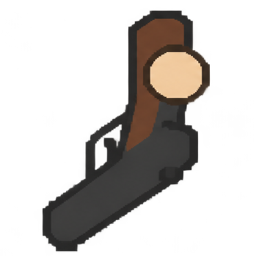
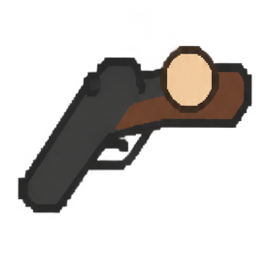
Update gunner level-2 gun sprites fr/fl; bump asset version

diff --git a/game.js b/game.js
@@ -157,7 +157,7 @@ const ISO_HH = 32; // половина высоты изотайла (64 / 2)
 const ROAD_WIDTH = 1.0; // ширина дороги в world units
 
 // Версия ассетов в запросе — сбрасывает кеш картинок в браузере/Telegram.
-const ASSET_VER = '?v=20261010f';
+const ASSET_VER = '?v=20261010g';
 
 // HiDPI-масштаб: рендерим канвас в физическом разрешении экрана, а UI
 // задаём в «CSS-пикселях», умножая абсолютные размеры на DPR. Ограничиваем

diff --git a/index.html b/index.html
@@ -45,6 +45,6 @@
   <script src="https://telegram.org/js/telegram-web-app.js"></script>
   <!-- Наш игровой код. Firebase (firebase-config.js) подгружается лениво,
        только при сохранении рекорда — чтобы сайт открывался быстрее. -->
-  <script type="module" src="game.js?v=20261010n"></script>
+  <script type="module" src="game.js?v=20261010o"></script>
 </body>
 </html>
